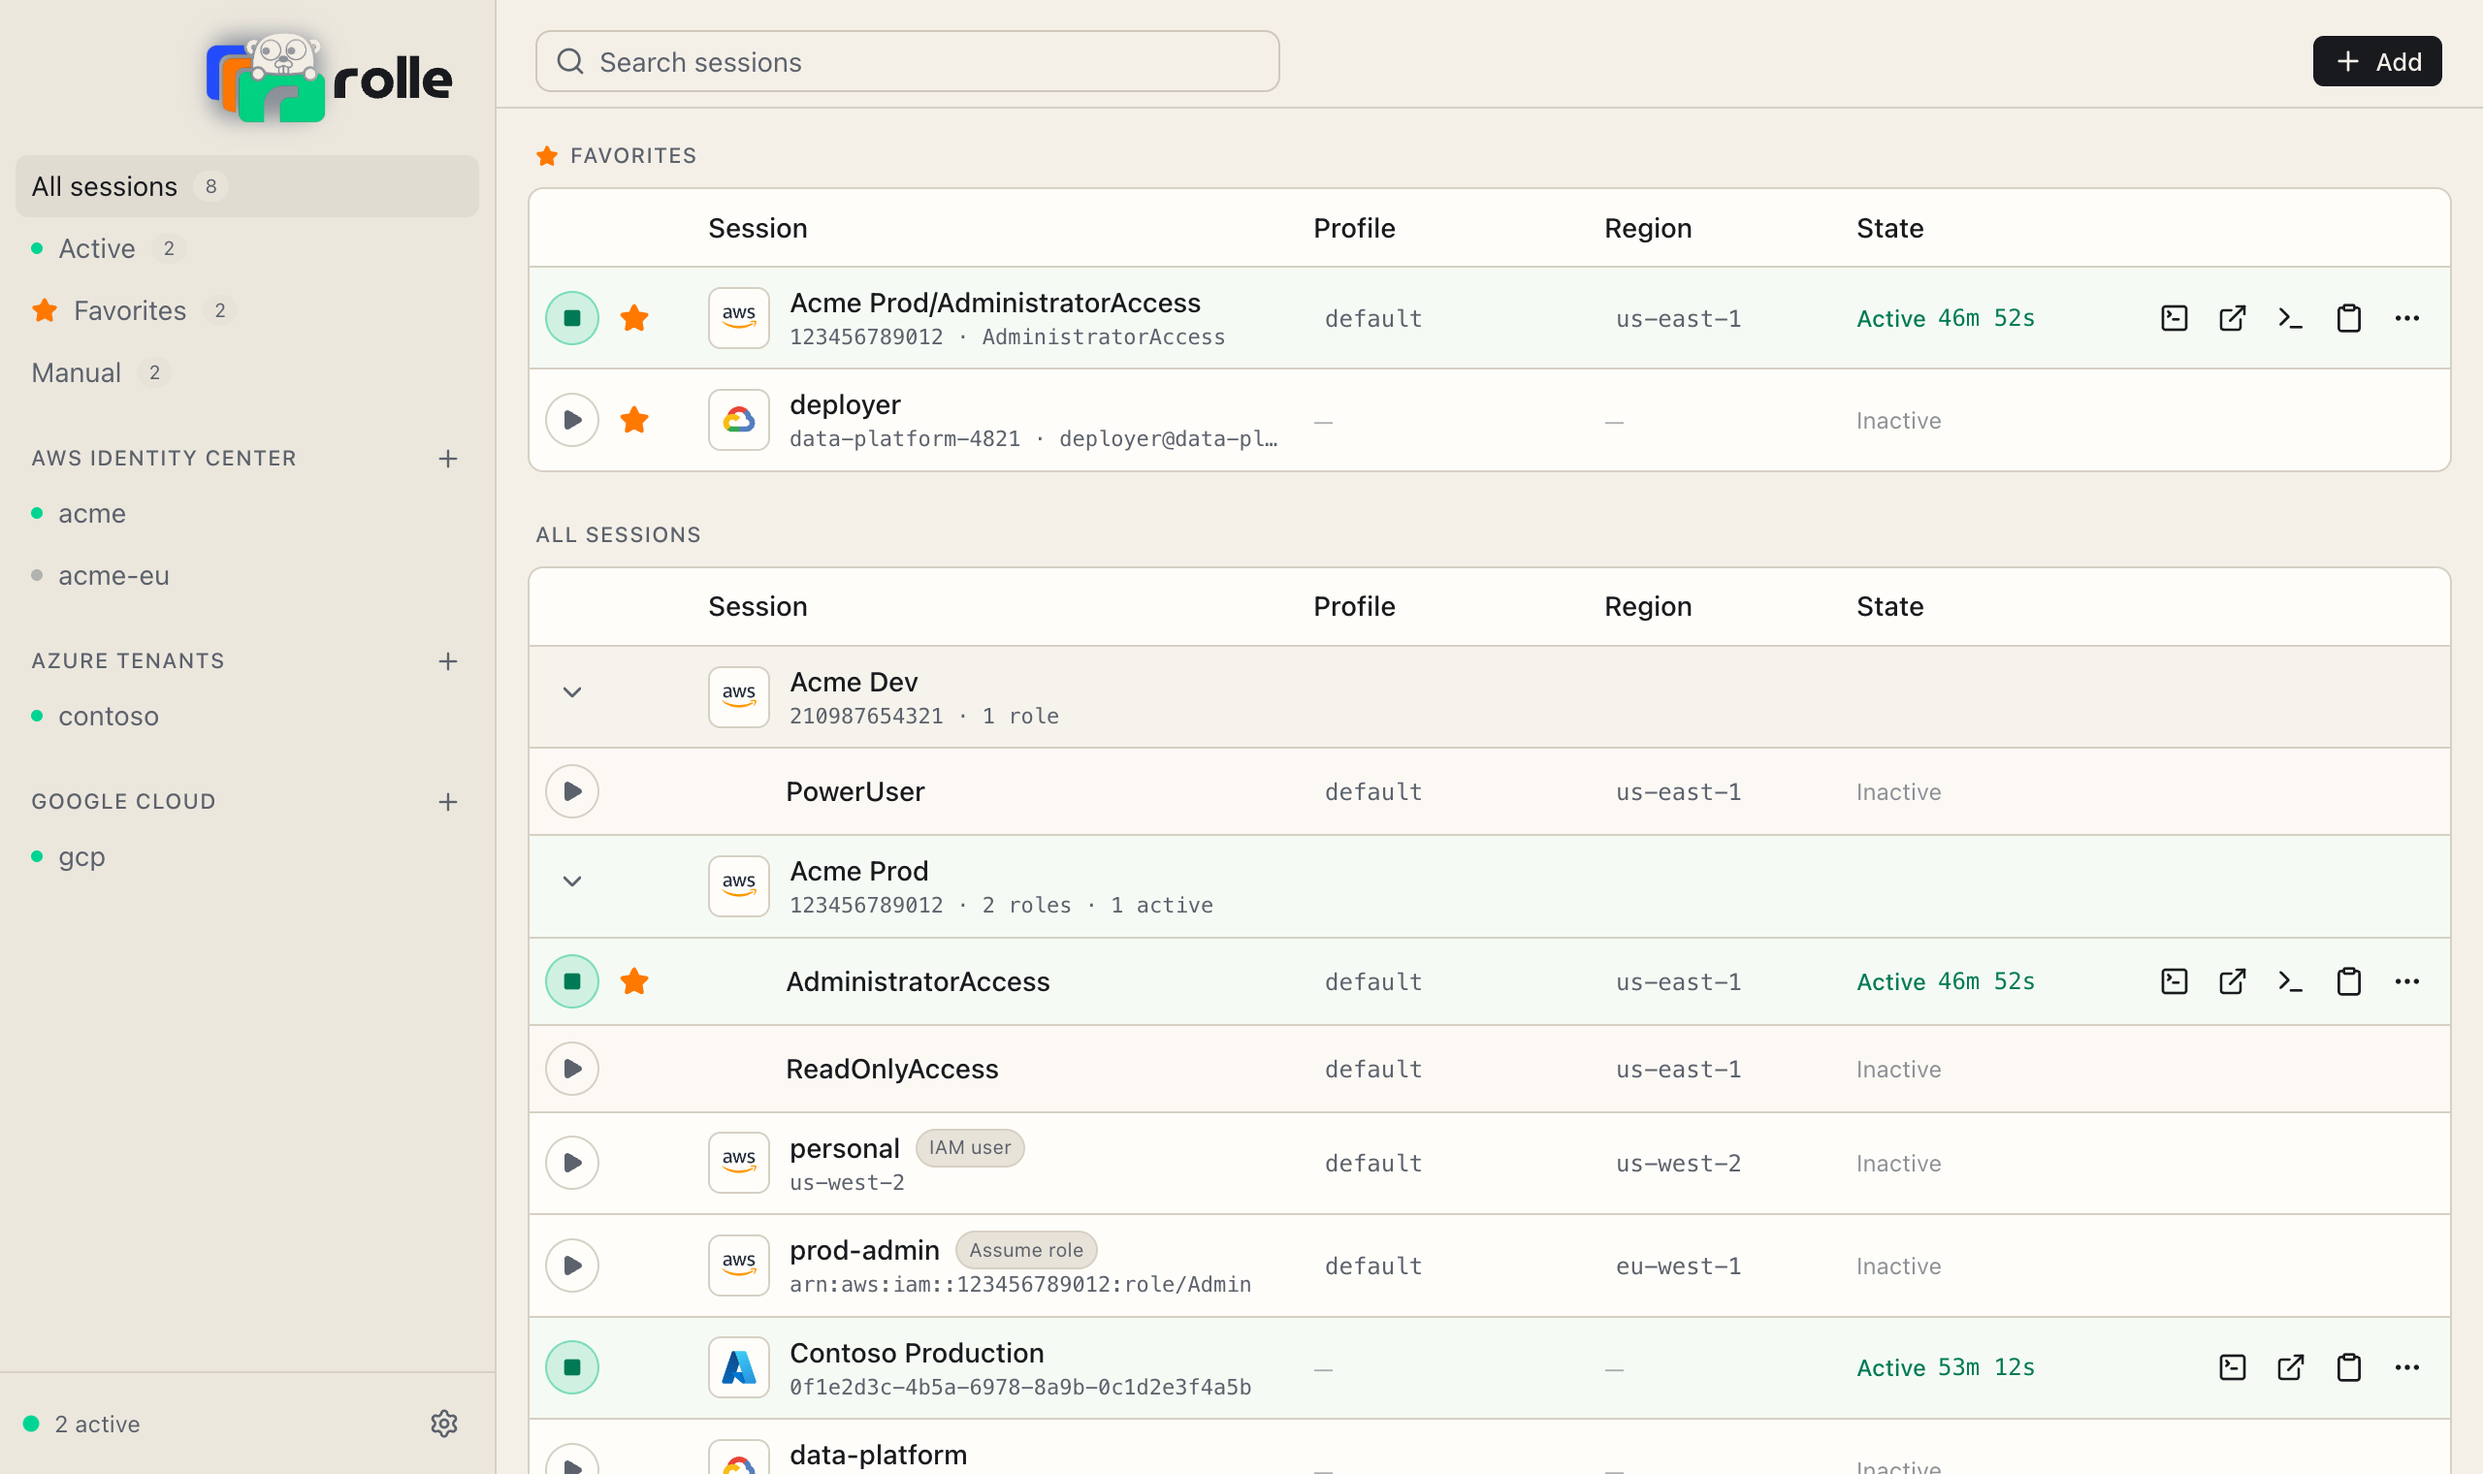
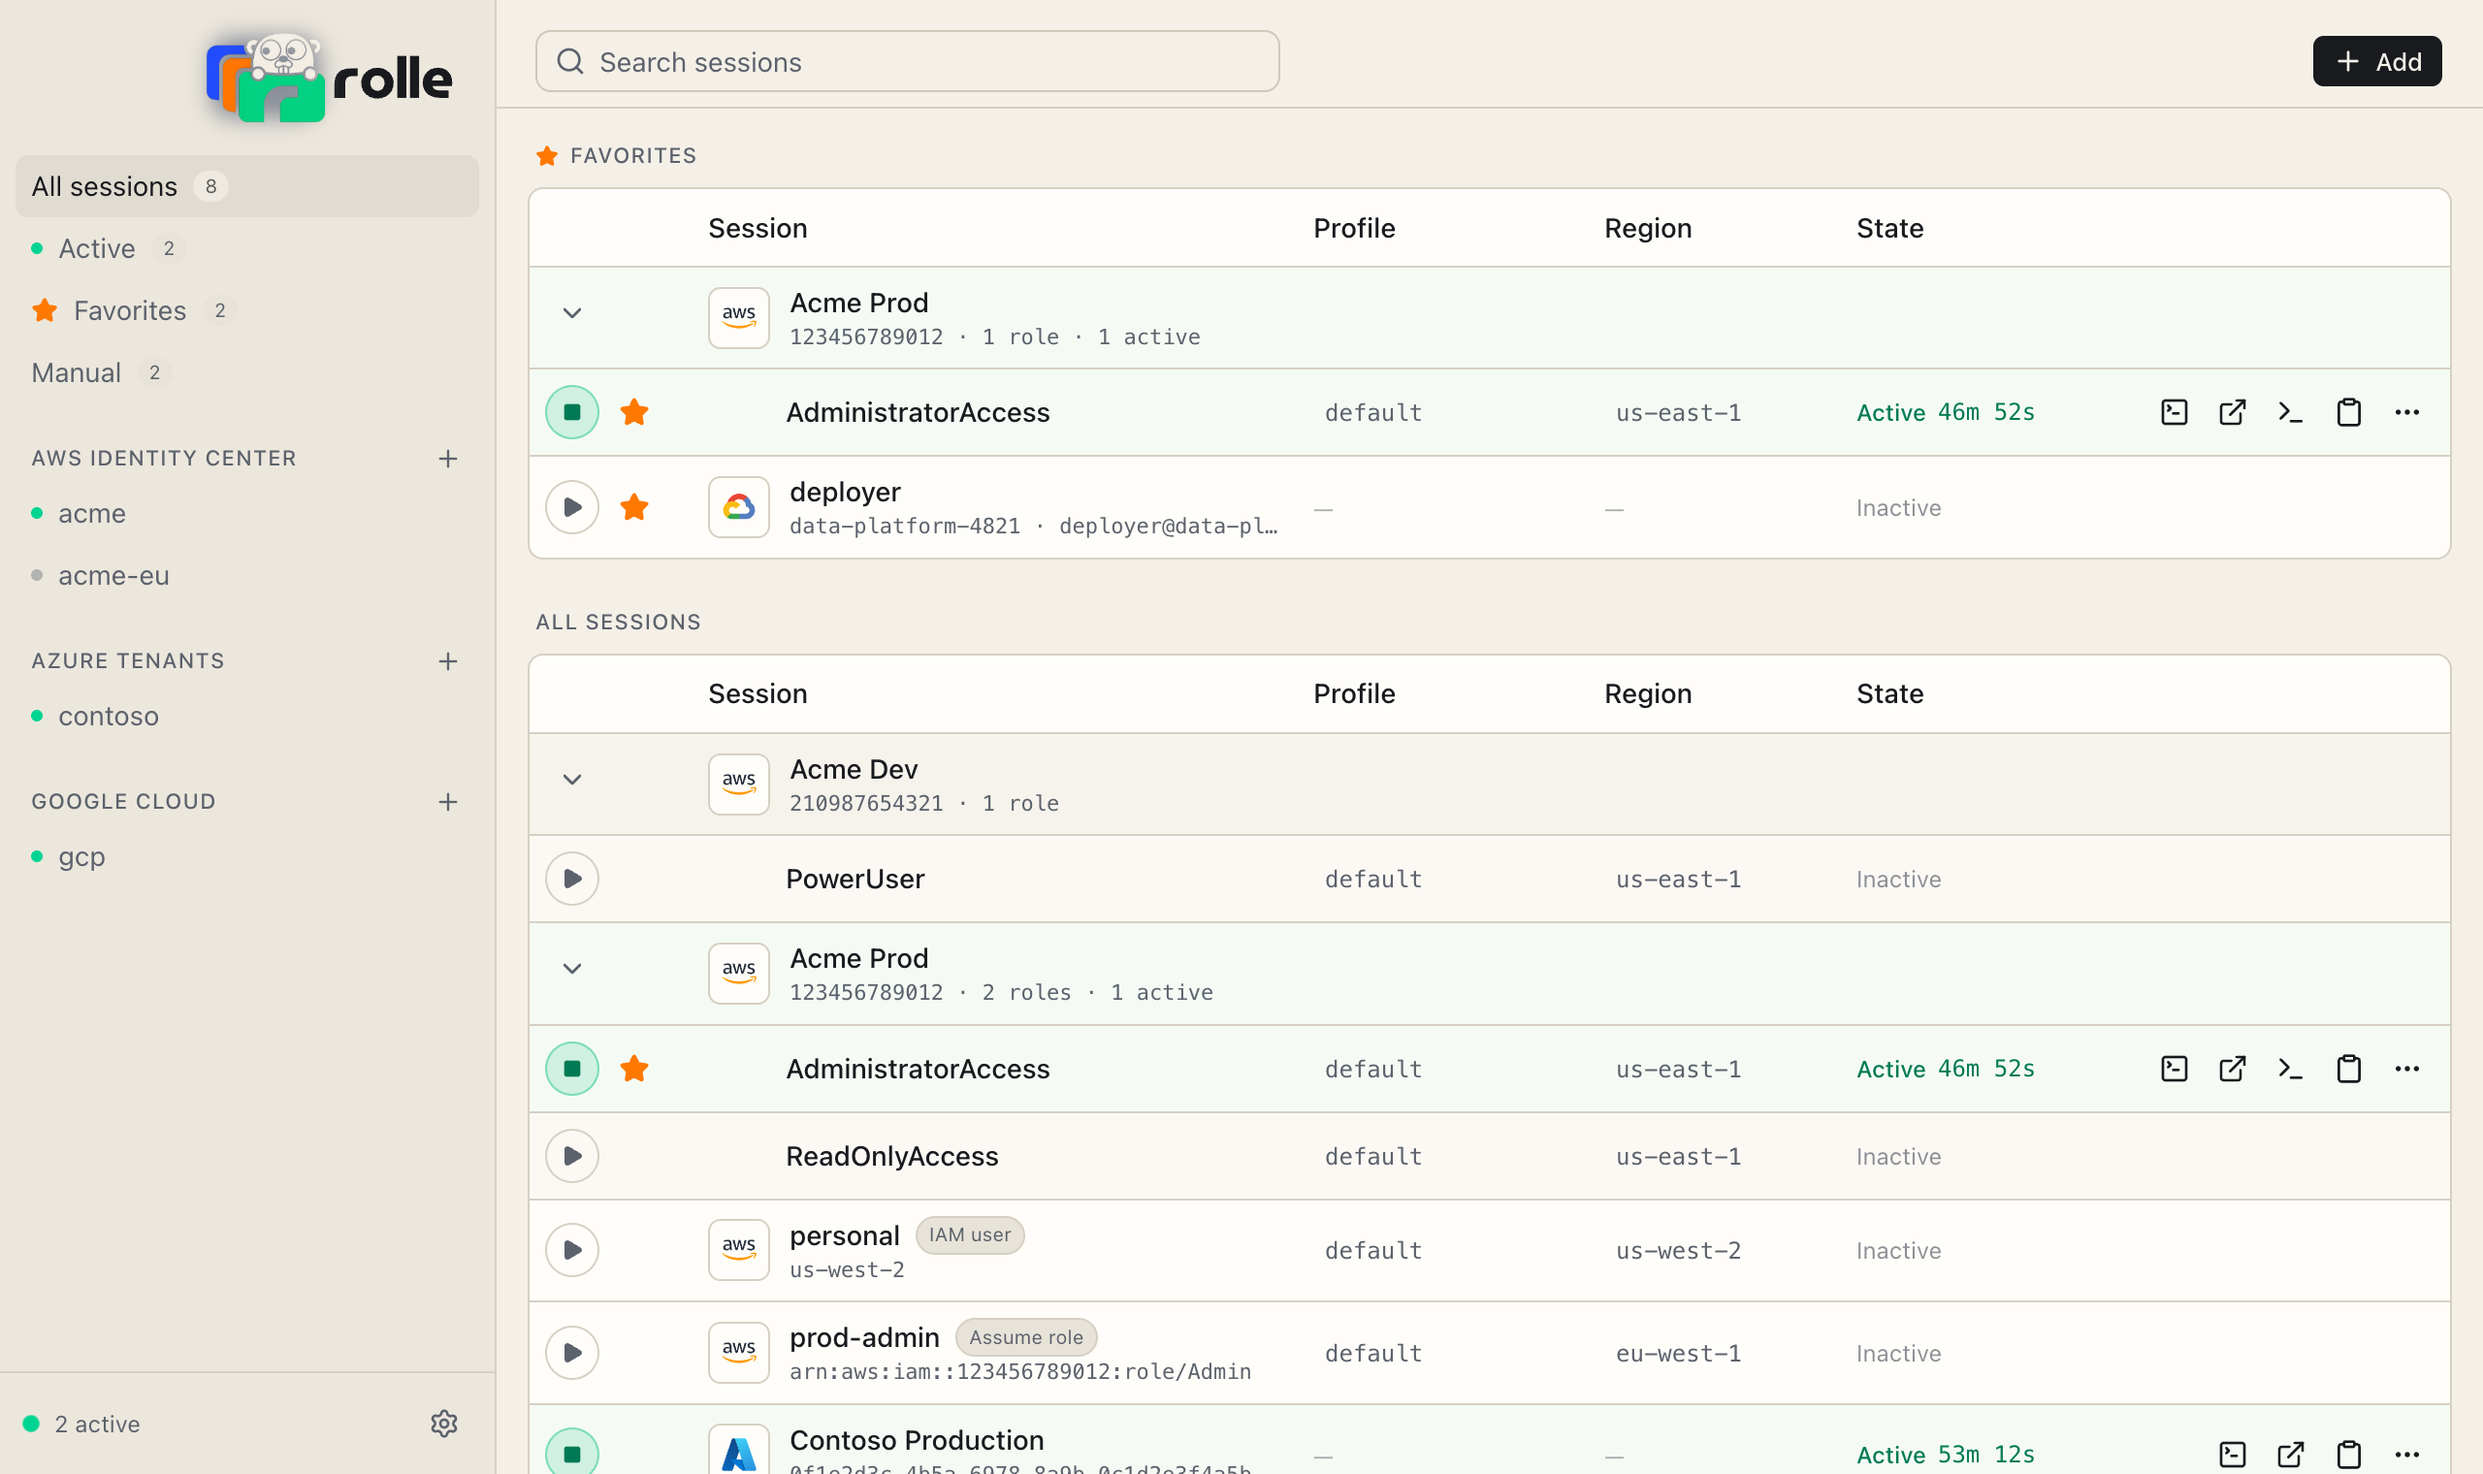
favorites use the same account groups as the main list; count pill stays visible on the selected row
The favorites panel rendered flat account/role names. It now goes
through the same grouping as every other list, so a favorite role sits
under its account. The flat mode and its test are gone.

The sidebar count pill used the muted surface, the same color as the
selected row, so it vanished on selection. It now takes a lighter tint
there.

diff --git a/apps/desktop/frontend/src/components/dashboard/SessionTable.tsx b/apps/desktop/frontend/src/components/dashboard/SessionTable.tsx
@@ -103,22 +103,14 @@ type TableProps = {
   workspace: Workspace;
   /** A search is in progress: every account shows its matching roles. */
   searching?: boolean;
-  /** Favorites list rows flat, without account groups. */
-  flat?: boolean;
   widths: ColumnWidths;
   onWidths: (w: ColumnWidths) => void;
   onNeedsLogin: (i: Integration, startId?: string) => void;
 };
 
-export function SessionTable({ sessions, workspace, searching, flat, widths, onWidths, onNeedsLogin }: TableProps) {
+export function SessionTable({ sessions, workspace, searching, widths, onWidths, onNeedsLogin }: TableProps) {
   const [collapsed, toggle] = useCollapsed();
-  const rows = useMemo(
-    () =>
-      flat
-        ? sessions.map<Row>((s) => ({ key: s.id, label: s.name, group: false, session: s }))
-        : groupSessions(sessions),
-    [sessions, flat],
-  );
+  const rows = useMemo(() => groupSessions(sessions), [sessions]);
 
   function resizer(col: keyof ColumnWidths) {
     return (

diff --git a/apps/desktop/frontend/src/components/dashboard/Dashboard.tsx b/apps/desktop/frontend/src/components/dashboard/Dashboard.tsx
@@ -442,7 +442,6 @@ export function Dashboard({ workspace }: { workspace: Workspace }) {
                   <SessionTable
                     sessions={favorites}
                     workspace={workspace}
-                    flat
                     widths={widths}
                     onWidths={setWidths}
                     onNeedsLogin={needsLogin}
@@ -577,7 +576,12 @@ function SideItem({
         )}
         <span className="truncate">{label}</span>
         {count !== undefined && (
-          <span className="rounded-full bg-muted px-1.5 py-px text-[10px] tabular-nums text-muted-foreground">
+          <span
+            className={cn(
+              "rounded-full px-1.5 py-px text-[10px] tabular-nums",
+              active ? "bg-background/70 text-foreground/70" : "bg-muted text-muted-foreground",
+            )}
+          >
             {count}
           </span>
         )}

diff --git a/apps/desktop/frontend/src/components/dashboard/SessionTable.test.tsx b/apps/desktop/frontend/src/components/dashboard/SessionTable.test.tsx
@@ -74,16 +74,6 @@ describe("SessionTable", () => {
     expect(screen.getByText("ReadOnly")).toBeInTheDocument();
   });
 
-  it("renders no account rows when flat", () => {
-    renderTable(roles, { flat: true });
-    expect(screen.queryByText("Acme Prod")).not.toBeInTheDocument();
-    expect(screen.queryByText(/2 roles/)).not.toBeInTheDocument();
-    expect(bodyRows()).toHaveLength(2);
-    // Flat rows carry the full session name.
-    expect(screen.getByText("Acme Prod/Admin")).toBeInTheDocument();
-    expect(screen.getByText("Acme Prod/ReadOnly")).toBeInTheDocument();
-  });
-
   it("takes the Profile and Region column widths from the widths prop", () => {
     const { container } = renderTable([iam], { widths: { profile: 210, region: 95, state: 130 } });
     const cols = container.querySelectorAll("col");

diff --git a/apps/desktop/frontend/src/components/dashboard/Dashboard.test.tsx b/apps/desktop/frontend/src/components/dashboard/Dashboard.test.tsx
@@ -39,8 +39,8 @@ describe("Dashboard", () => {
     expect(workspace.sessions).toHaveLength(8);
     expect(screen.getByText("All sessions", { selector: "span" })).toBeInTheDocument();
     for (const alias of ["acme", "contoso", "gcp", "acme-eu"]) expect(screen.getByText(alias)).toBeInTheDocument();
-    // Account groups and standalone rows from the seed.
-    expect(screen.getByText("Acme Prod")).toBeInTheDocument();
+    // Account groups and standalone rows from the seed. Acme Prod also heads the favorites panel.
+    expect(screen.getAllByText("Acme Prod")).toHaveLength(2);
     expect(screen.getByText("Acme Dev")).toBeInTheDocument();
     expect(screen.getByText("Contoso Production")).toBeInTheDocument();
     expect(screen.getByText("data-platform")).toBeInTheDocument();
